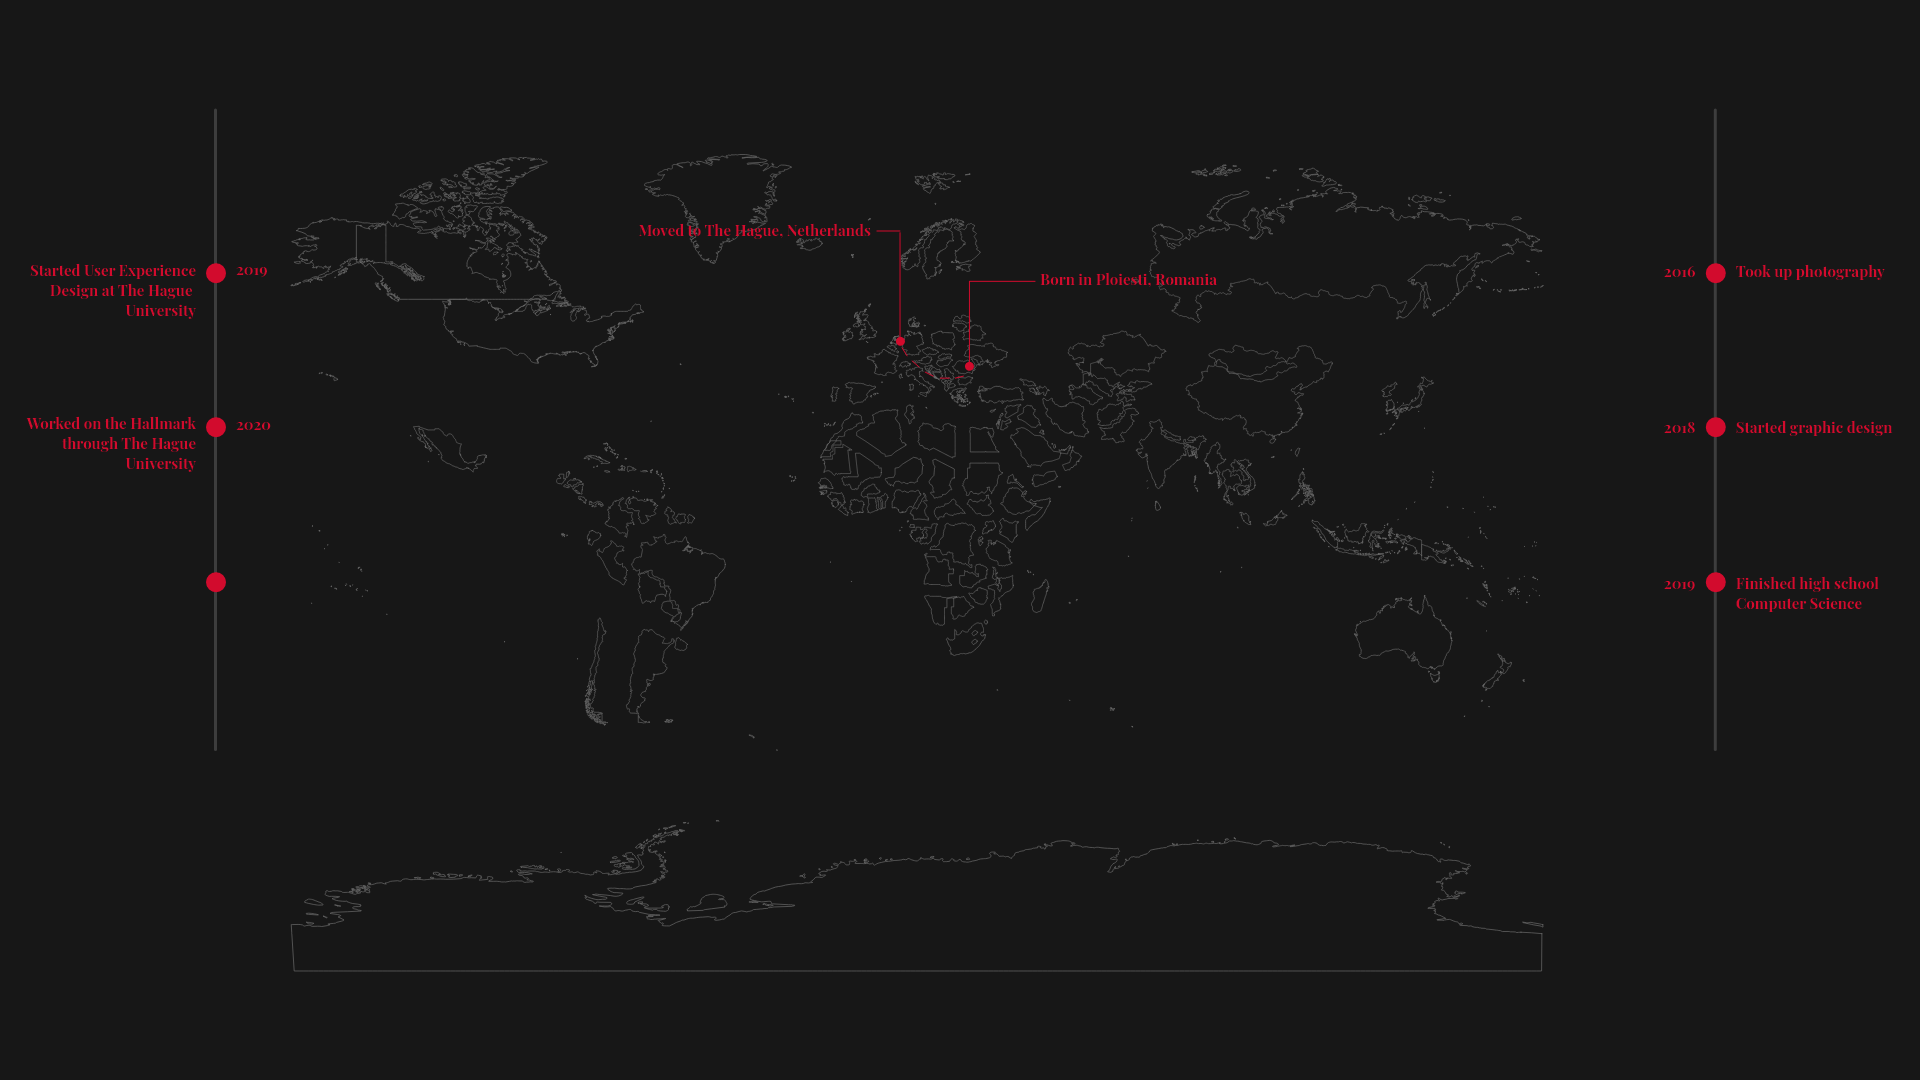
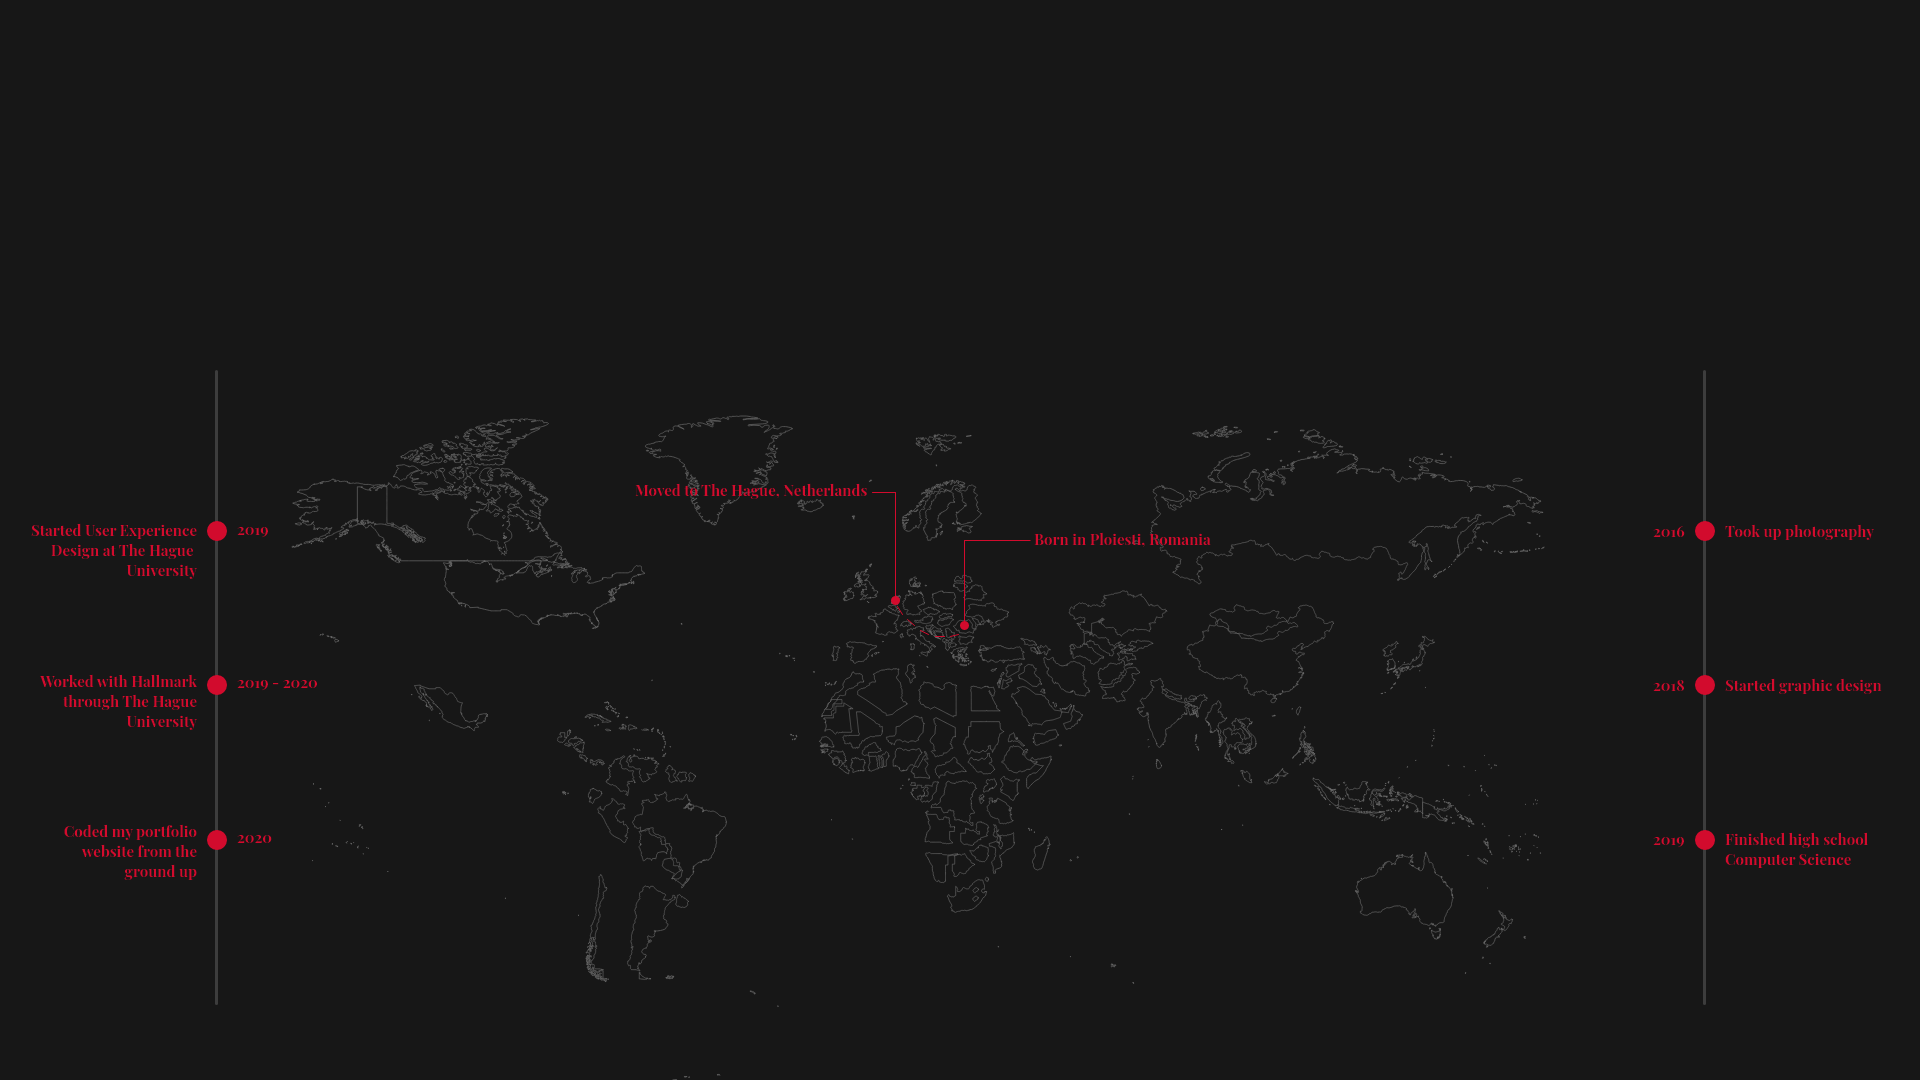
half rijks

diff --git a/rijks.html b/rijks.html
@@ -26,14 +26,57 @@
          <p> The project is a thorough research on multiple user categories to establish the possible usability issues of the Rijksmuseum website. </p>
         </div>
 
+        <div class="overview-grid">
+            <div class="label"> TIMELINE </div>
+            <div class="label"> TEAM </div>
+
+            <div class="labeled"> november 2019 - january 2020 </div>
+            <div class="labeled"> Brandon Grimm <br> Pedro Fernandes Silva <br> Brynja Kristinsdóttir <br> Smaranda Franciuc <br> Adina Gojnea </div>
+        </div>
+        <hr>
+
+        <div class="step"> STEP 1 &nbsp; &nbsp; Getting familiar with the website </div>
+        <p> As a team we set out to discover the website and its functionalities and write down our assumptions to know how to formulate our tasks for the users further. We discovered some usability issues both from the UX perspective and as first time users since none of us came in contact with the site before this project. </p>
         <br>
-        <div class="showcase">
-            <img src="images/rijksmapping.jpg">
+
+        <div class="showcase-project">
+            <img src="images/rijksmeet.jpg">
+        </div>
+
+        <div class="step"> STEP 2 &nbsp; &nbsp; Making step by step protocol </div>
+        <p> We put together a step by step protocol that each of us needed to stick to for the research phase with their user. Anybody following the protocol would be able to conduct the same research as we did. </p>
+        <br>
+
+        <div class="step"> STEP 3 &nbsp; &nbsp; Gathering data </div>
+        <p> Each of us set out to gather data in a familiar setting with their user with the help of another teammate for note-taking and better conducting the research. We recorded our users clicks and mouse movement while they were conducting the tasks and also interviewed them to gather their opinion on how usable the site seemed. </p>
+        <br>
+
+        <div class="showcase-project">
+            <img src="images/rijkstask-100.jpg">
         </div>
 
         <div class="imageexplanation">
             Testing the right and wrong clicks that our users made for the tasks we asked them to complete to figure out if their assumptions match the functionality of the website.
         </div>
+        <br> <br>
+
+        <br> <br>
+        <div class="step"> STEP 4 &nbsp; &nbsp; Analysis </div>
+        <p> After putting together the data we have all gathered, we started interpreting it to establish the general issues the website was found to have.  </p>
+
+
+        <div class="showcase-project">
+            <img src="images/rijkstable-100.jpg">
+        </div>
+
+        <div class="imageexplanation">
+           We as a team put together each of the usability issues our users found and aimed at showing how many times each of them occured and how  
+        </div>
+        <br> <br>
+
+        <div class="step"> Conclusion </div>
+        <p> Most of the usability issues found were due to buttons being misplaced or buttons that took the user into an unpredictable location (such as the back button not taking you to the previously visited page). 
+            <br> <br> We ended our research by filling a research journal with all of our findings and a thorough explanation for each of them and some suggestions for what we believe would make the site easier to use at the first glance. </p>
 
     </body>
 </html>

diff --git a/styles.css b/styles.css
@@ -36,7 +36,7 @@ body{
     margin: 0;
     line-height: 1;
     font-family: Lato, sans-serif;
-    font-size: 2.3vw;
+    font-size: 2vw;
 }
 
 
@@ -77,7 +77,25 @@ body{
 p{
     color: #eeeeee;
     width: 60%;
-    display:inline-block;
+    font-family: Lato, sans-serif;
+    font-size: 1.5vw;
+    font-weight: 600;
+    opacity: 0.7;
+    display: table;
+    margin: 0 auto;
+    text-align: center;
+    padding-bottom: 4vw;
+    padding-top: 0.5vw;
+}
+
+.step{
+    color: #d20b2d;
+    font-size:2.2vw;
+    font-weight: 700;
+    width: 50%;
+    margin: 0 auto;
+    text-align: center;
+    padding-top: 2vw;
 }
 
 .subtitle{
@@ -87,6 +105,17 @@ p{
     font-weight: 700;
     color: #d20b2d;
     padding-bottom: 4vw;
+}
+
+hr{
+    width: 60%;
+    height: 0.3vw;
+    background-color: #eeeeee;
+    margin-left: auto;
+    margin-right: auto;
+    opacity: 0.3;
+    margin-bottom: 6vw;
+    margin-top: 4vw;
 }
 
 /* INDEX */
@@ -357,9 +386,26 @@ a.cat{
     text-decoration: none;
     text-align: center;
     color: #eeeeee;
+    opacity: 0.3;
     font-family: Lato, sans-serif;
     width:80%;
     padding-top:0;
+    margin: 0 auto;
+}
+
+.showcase-project{
+    position: relative;
+    height: auto;
+    width: 100%;
+    overflow: hidden;
+    padding:0;
+}
+
+.showcase-project img{
+    display: table;
+    max-width: 100%;
+    max-height: 100%;
+    overflow: hidden;
     margin: 0 auto;
 }
 
@@ -372,6 +418,39 @@ a.cat{
     font-weight: 700;
     color: rgb(61, 54, 122);
     padding-bottom: 4vw;
+}
+
+.overview-grid{
+    -webkit-box-pack: center;
+            justify-content: center;
+    align-content: center;
+    padding: 2vw 2vw;
+    display: grid; 
+    grid-template-columns: auto auto; 
+    grid-template-rows: auto;
+    grid-column-gap: 8vw;
+    min-height: 0;
+    min-width: 0; 
+}
+
+.label{
+    font-family: Lato, sans-serif;
+    font-size: 1.5vw; 
+    font-weight: 600;
+    color: #d20b2d;
+    text-align: center;
+    padding: 0 4vw;
+}
+
+.labeled{
+    font-family: Lato, sans-serif;
+    font-size: 1.2vw; 
+    color: #eeeeee;
+    text-align: center;
+    padding-top: 1vw;
+    padding-left: 4vw;
+    padding-right: 4vw;
+    opacity: 0.5;
 }
 
 /* WORK */

diff --git a/index.html b/index.html
@@ -41,7 +41,7 @@
         <section class="project-item">
             <h2>MY LIFE SO FAR...</h2>
             <div class="timeline">
-                <img src="images/Landing scroll - Timeline.png" alt="timeline">
+                <img src="images/timeline.jpg" alt="timeline">
             </div>
         </section>
 
